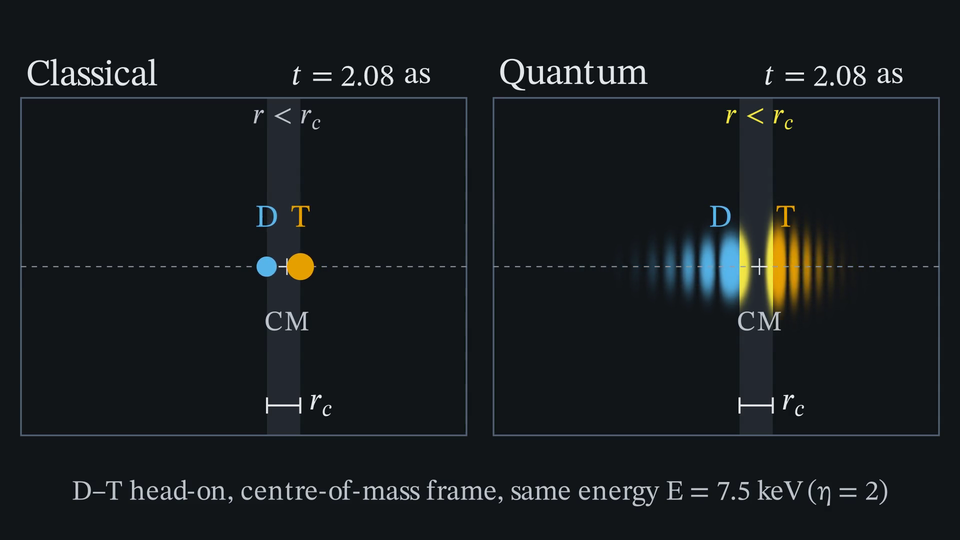
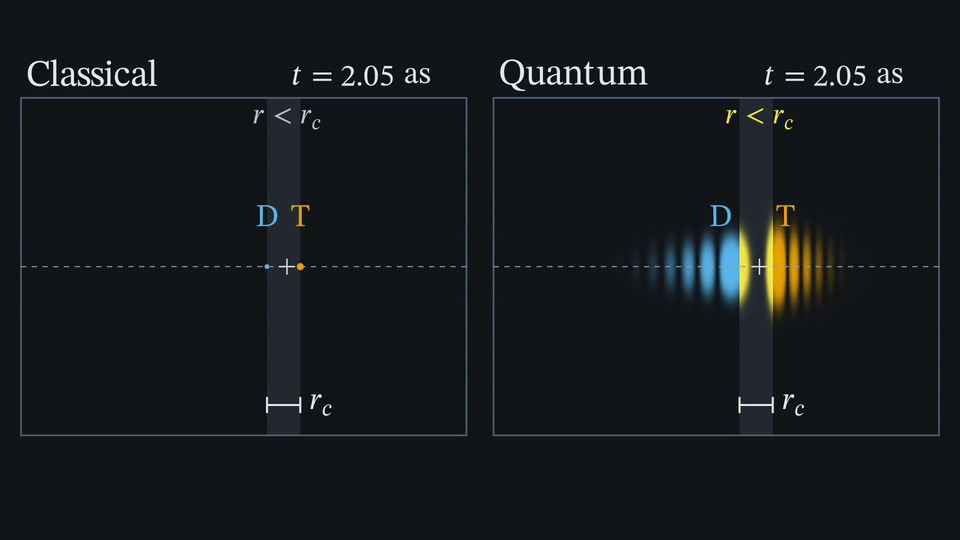
Show the Coulomb collision classical, quantum, then both, without prose
Three parts on one clock, axes and scale: classical alone, quantum alone,
both side by side (35.9 s). D and T are small point-like dots; the on-screen
caption and the CM text are removed, so the energy, CM frame and the
illustrative transverse width now live in the Skript caption. Re-rendered at
1080p60; registry and poster updated.

Claude-Session: https://claude.ai/code/session_017TLQrDTj8rvpYjHiC4zABo

diff --git a/animations/coulomb_collision.py b/animations/coulomb_collision.py
@@ -1,6 +1,7 @@
-"""Head-on D-T collision seen from above, classical and quantum side by side.
+"""Head-on D-T collision seen from above: classical, quantum, then both.
 
-Both panels show the collision plane in real space, centre-of-mass frame,
+Three parts on the same clock, axes, scale and r_c marker: the classical
+collision alone, the quantum collision alone, both side by side. Every panel shows the collision plane in real space, centre-of-mass frame,
 head-on (l = 0), at the same energy E (eta = 2, D-T at 7.5 keV) and on the
 same clock. The separation r of the two nuclei sets their positions on the
 collision axis, x_D = -(m_T/M) r and x_T = +(m_D/M) r (radial_coulomb.py).
@@ -22,20 +23,22 @@ import numpy as np
 
 from style import (
     BLUE, FAINT, GRID, INK, LABEL_SIZE, LINEAR, MATH_SIZE, MATH_SMALL,
-    MUTED, ORANGE, SMALL_SIZE, THIN_WIDTH, VERMILION, StyledScene, label, math,
+    MUTED, ORANGE, THIN_WIDTH, VERMILION, StyledScene, label, math,
 )
 import radial_coulomb as model
 
 X_LO, X_HI = -8.0, 5.4   # collision-axis window of each panel, in r_c (CM at 0)
 PANEL_W = 6.6           # panel width, Manim units
 PANEL_H = 5.0
-SCALE = PANEL_W / (X_HI - X_LO)
+SOLO_W = 12.6           # full-width panel, same axis window
 CENTRES = (np.array([-3.5, 0.05, 0]), np.array([3.5, 0.05, 0]))
+SOLO_CENTRE = np.array([0.0, 0.05, 0])
 T_START, T_END = 12.0, 58.2     # model time (hbar/E), symmetric about the classical turn 35.1
-PLAY_TIME = 12.5
-HOLD = 0.6
+PLAY_TIME = 10.5        # per part
+HOLD = 0.4
+FADE = 0.4
 SIGMA_Y = {"D": 0.42, "T": 0.52}    # illustrative transverse widths, in r_c
-DOT_R = {"D": 0.15, "T": 0.20}      # Manim units
+DOT_R = {"D": 0.035, "T": 0.0525}   # Manim units: ~9 and 14 px, << r_c (66 px)
 COLOR = {"D": BLUE, "T": VERMILION}
 INSIDE = ORANGE                     # parts of the clouds with r < r_c
 INSIDE_GAIN = 6.0
@@ -48,7 +51,7 @@ def hex_rgb(color):
 
 
 class CoulombCollision(StyledScene):
-    """Classical point particles (left) and quantum clouds (right)."""
+    """Classical point particles, quantum clouds, then both side by side."""
 
     def build(self):
         packet = model.RadialPacket()
@@ -56,144 +59,133 @@ class CoulombCollision(StyledScene):
         x_turn_d, x_turn_t = model.cm_positions(1.0)
         unit_as = model.time_unit_s() * 1e18
         tracker = ValueTracker(T_START)
-
-        def to_scene(panel, x, y=0.0):
-            x = x - 0.5 * (X_LO + X_HI)
-            return CENTRES[panel] + np.array([x * SCALE, y * SCALE, 0])
-
-        # --- static frame of both panels ---------------------------------
-        statics, bands = VGroup(), VGroup()
-        headings = []
-        for panel, title in enumerate(("Classical", "Quantum")):
-            box = Rectangle(width=PANEL_W, height=PANEL_H, stroke_color=GRID,
-                            stroke_width=THIN_WIDTH).move_to(CENTRES[panel])
-            band = Rectangle(width=SCALE * (x_turn_t - x_turn_d), height=PANEL_H,
-                             stroke_width=0, fill_color=GRID, fill_opacity=0.28)
-            band.move_to(to_scene(panel, 0.5 * (x_turn_d + x_turn_t)))
-            axis = DashedLine(to_scene(panel, X_LO), to_scene(panel, X_HI),
-                              dash_length=0.08, stroke_color=FAINT, stroke_width=1.6)
-            cm = VGroup(Line(to_scene(panel, 0, -0.25), to_scene(panel, 0, 0.25)),
-                        Line(to_scene(panel, -0.25, 0), to_scene(panel, 0.25, 0)))
-            cm.set_stroke(INK, 2.0)
-            cm_label = label("CM", color=MUTED, size=SMALL_SIZE)
-            cm_label.next_to(to_scene(panel, 0, -1.35), DOWN, buff=0)
-            # Scale bar r_c between the classical turning positions of D and T.
-            y_bar = -0.5 * PANEL_H / SCALE + 0.9
-            left, right = to_scene(panel, x_turn_d, y_bar), to_scene(panel, x_turn_t, y_bar)
-            bar = VGroup(Line(left, right), Line(left + 0.12 * UP, left + 0.12 * DOWN),
-                         Line(right + 0.12 * UP, right + 0.12 * DOWN)).set_stroke(INK, 3.0)
-            bar_label = math(r"r_c", color=INK, size=MATH_SIZE).next_to(bar, RIGHT, buff=0.15)
-            heading = label(title, color=INK, size=LABEL_SIZE + 6)
-            heading.next_to(box, UP, buff=0.18).align_to(box, LEFT).shift(0.1 * RIGHT)
-            if headings:
-                heading.align_to(headings[0], UP)      # same cap line
-            headings.append(heading)
-            bands.add(band)
-            statics.add(box, axis, cm, cm_label, bar, bar_label, heading)
-            inside = math(r"r<r_c", color=INSIDE if panel else MUTED, size=MATH_SMALL)
-            inside.next_to(to_scene(panel, 0, 0.5 * PANEL_H / SCALE), DOWN, buff=0.15)
-            statics.add(inside)
-
-        clocks = VGroup()
-        for panel in (0, 1):
-            clock = VGroup(math(r"t =", color=INK, size=MATH_SIZE),
-                           DecimalNumber(0.0, num_decimal_places=2, color=INK, font_size=MATH_SIZE),
-                           math(r"\mathrm{as}", color=INK, size=MATH_SIZE)).arrange(RIGHT, buff=0.15)
-            clock.next_to(CENTRES[panel] + np.array([0.5 * PANEL_W, 0.5 * PANEL_H, 0]),
-                          UP + LEFT, buff=0.18)
-            clock.shift(0.36 * LEFT)
-            clocks.add(clock)
-
-        def update_clock(mob):
-            mob[1].set_value((tracker.get_value() - T_START) * unit_as)
-
-        for clock in clocks:
-            update_clock(clock)
-            clock.add_updater(update_clock)
-
-        footer = label("D–T head-on, centre-of-mass frame, same energy E = 7.5 keV (η = 2)",
-                       color=MUTED, size=SMALL_SIZE)
-        footer.move_to([0, -3.3, 0])
-
-        # --- classical panel: two point particles -------------------------
-        dots = {s: Dot(radius=DOT_R[s], color=COLOR[s]) for s in ("D", "T")}
-        names = {s: label(s, color=COLOR[s], size=LABEL_SIZE) for s in ("D", "T")}
+        peak0 = np.max(np.abs(packet.at(T_START)) ** 2)
 
         def classical_x():
             r = float(model.classical_orbit([tracker.get_value()])[0][0])
             return dict(zip(("D", "T"), model.cm_positions(r)))
-
-        def place(species, panel, get_x):
-            def update(mob):
-                x = get_x()[species]
-                mob.move_to(to_scene(panel, x))
-                mob.set_opacity(1.0 if X_LO + 0.3 < x < X_HI - 0.3 else 0.0)
-            return update
-
-        def place_name(species, panel, get_x):
-            def update(mob):
-                x = get_x()[species]
-                mob.next_to(to_scene(panel, x, 1.2), UP, buff=0)
-                mob.set_opacity(1.0 if X_LO + 0.3 < x < X_HI - 0.3 else 0.0)
-            return update
-
-        classical = Group()
-        for s in ("D", "T"):
-            for mob, maker in ((dots[s], place), (names[s], place_name)):
-                maker(s, 0, classical_x)(mob)
-                mob.add_updater(maker(s, 0, classical_x))
-                classical.add(mob)
-
-        # --- quantum panel: probability clouds -----------------------------
-        n_x = int(round(PANEL_W * PX_PER_UNIT))
-        n_y = int(round(PANEL_H * PX_PER_UNIT))
-        xs = X_LO + (np.arange(n_x) + 0.5) / n_x * (X_HI - X_LO)
-        ys = ((np.arange(n_y) + 0.5) / n_y - 0.5) * PANEL_H / SCALE
-        profile = {s: np.exp(-ys**2 / (2 * SIGMA_Y[s] ** 2))[:, None] for s in ("D", "T")}
-        peak0 = np.max(np.abs(packet.at(T_START)) ** 2)
-
-        def cloud_pixels():
-            density = np.abs(packet.at(tracker.get_value())) ** 2 / peak0
-            rho_d, rho_t, r_d, r_t = model.marginal_densities(xs, packet.r, density)
-            # Show each cloud on the radial scale (rho in units of the incoming peak).
-            rho = {"D": rho_d * mass_t / (mass_d + mass_t), "T": rho_t * mass_d / (mass_d + mass_t)}
-            sep = {"D": r_d, "T": r_t}
-            rgb = np.zeros((n_y, n_x, 3))
-            for s in ("D", "T"):
-                inner = (sep[s] < 1.0) & (sep[s] > 0)
-                gain = np.where(inner, INSIDE_GAIN, 1.0)[None, :]
-                level = 1 - np.exp(-gain * rho[s][None, :] * profile[s] / TONE)
-                color = np.where(inner[:, None], hex_rgb(INSIDE), hex_rgb(COLOR[s]))
-                rgb += level[..., None] * color[None, :, :]
-            # Straight alpha so that the r < r_c band shading stays underneath.
-            alpha = np.clip(rgb.max(axis=2, keepdims=True), 0, 1)
-            color = np.clip(rgb / np.maximum(alpha, 1e-6), 0, 1)
-            return np.round(255 * np.concatenate([color, alpha], 2)).astype(np.uint8)
-
-        cloud = ImageMobject(cloud_pixels())
-        cloud.set_resampling_algorithm(RESAMPLING_ALGORITHMS["linear"])
-        cloud.stretch_to_fit_width(PANEL_W).stretch_to_fit_height(PANEL_H)
-        cloud.move_to(CENTRES[1])
-
-        def update_cloud(mob):
-            mob.pixel_array = cloud_pixels()
-
-        cloud.add_updater(update_cloud)
 
         def quantum_x():
             u = packet.at(tracker.get_value())
             mean_r = float(np.sum(packet.r * np.abs(u) ** 2) * packet.dr)
             return dict(zip(("D", "T"), model.cm_positions(mean_r)))
 
-        q_names = Group()
-        for s in ("D", "T"):
-            mob = label(s, color=COLOR[s], size=LABEL_SIZE)
-            place_name(s, 1, quantum_x)(mob)
-            mob.add_updater(place_name(s, 1, quantum_x))
-            q_names.add(mob)
+        def make_panel(title, centre, width, quantum):
+            """Layers (bottom to top) of one panel; the scale follows its width."""
+            scale = width / (X_HI - X_LO)
 
-        # The cloud image sits above the band shading, below frame and labels.
-        self.add(bands, cloud, statics, classical, q_names, clocks, footer)
-        self.wait(HOLD)
-        self.play(tracker.animate.set_value(T_END), run_time=PLAY_TIME, rate_func=LINEAR)
-        self.wait(HOLD)
+            def to_scene(x, y=0.0):
+                return centre + np.array([(x - 0.5 * (X_LO + X_HI)) * scale, y, 0])
+
+            box = Rectangle(width=width, height=PANEL_H, stroke_color=GRID,
+                            stroke_width=THIN_WIDTH).move_to(centre)
+            band = Rectangle(width=scale * (x_turn_t - x_turn_d), height=PANEL_H,
+                             stroke_width=0, fill_color=GRID, fill_opacity=0.28)
+            band.move_to(to_scene(0.5 * (x_turn_d + x_turn_t)))
+            axis = DashedLine(to_scene(X_LO), to_scene(X_HI), dash_length=0.08,
+                              stroke_color=FAINT, stroke_width=1.6)
+            cm = VGroup(Line(to_scene(0, -0.12), to_scene(0, 0.12)),
+                        Line(to_scene(0) + 0.12 * LEFT, to_scene(0) + 0.12 * RIGHT))
+            cm.set_stroke(INK, 2.0)
+            # Scale bar r_c between the classical turning positions of D and T.
+            y_bar = -0.5 * PANEL_H + 0.45
+            left, right = to_scene(x_turn_d, y_bar), to_scene(x_turn_t, y_bar)
+            bar = VGroup(Line(left, right), Line(left + 0.12 * UP, left + 0.12 * DOWN),
+                         Line(right + 0.12 * UP, right + 0.12 * DOWN)).set_stroke(INK, 3.0)
+            bar_label = math(r"r_c", color=INK, size=MATH_SIZE).next_to(bar, RIGHT, buff=0.15)
+            heading = label(title, color=INK, size=LABEL_SIZE + 6)
+            heading.next_to(box, UP, buff=0.18).align_to(box, LEFT).shift(0.1 * RIGHT)
+            heading.shift((box.get_top()[1] + 0.57 - heading.get_top()[1]) * UP)  # common cap line
+            inside = math(r"r<r_c", color=INSIDE if quantum else MUTED, size=MATH_SMALL)
+            inside.next_to(to_scene(0, 0.5 * PANEL_H), DOWN, buff=0.15)
+            statics = VGroup(box, axis, cm, bar, bar_label, heading, inside)
+
+            clock = VGroup(math(r"t =", color=INK, size=MATH_SIZE),
+                           DecimalNumber(0.0, num_decimal_places=2, color=INK, font_size=MATH_SIZE),
+                           math(r"\mathrm{as}", color=INK, size=MATH_SIZE)).arrange(RIGHT, buff=0.15)
+            clock.next_to(centre + np.array([0.5 * width, 0.5 * PANEL_H, 0]),
+                          UP + LEFT, buff=0.18)
+            clock.shift(0.36 * LEFT)
+
+            def update_clock(mob):
+                mob[1].set_value((tracker.get_value() - T_START) * unit_as)
+
+            update_clock(clock)
+            clock.add_updater(update_clock)
+
+            def follow(species, get_x, mob, dy):
+                def update(m):
+                    x = get_x()[species]
+                    m.move_to(to_scene(x, dy)) if dy == 0 else m.next_to(to_scene(x, dy), UP, buff=0)
+                    m.set_opacity(1.0 if X_LO + 0.3 < x < X_HI - 0.3 else 0.0)
+                update(mob)
+                mob.add_updater(update)
+                return mob
+
+            below = Group(band)
+            moving = Group()
+            if not quantum:
+                for s in ("D", "T"):
+                    moving.add(follow(s, classical_x, Dot(radius=DOT_R[s], color=COLOR[s]), 0))
+                    moving.add(follow(s, classical_x, label(s, color=COLOR[s], size=LABEL_SIZE), 0.6))
+                return below, statics, moving, clock
+
+            n_x = int(round(width * PX_PER_UNIT))
+            n_y = int(round(PANEL_H * PX_PER_UNIT))
+            xs = X_LO + (np.arange(n_x) + 0.5) / n_x * (X_HI - X_LO)
+            ys = ((np.arange(n_y) + 0.5) / n_y - 0.5) * PANEL_H / scale
+            profile = {s: np.exp(-ys**2 / (2 * SIGMA_Y[s] ** 2))[:, None] for s in ("D", "T")}
+
+            def cloud_pixels():
+                density = np.abs(packet.at(tracker.get_value())) ** 2 / peak0
+                rho_d, rho_t, r_d, r_t = model.marginal_densities(xs, packet.r, density)
+                # Each cloud on the radial scale (rho in units of the incoming peak).
+                rho = {"D": rho_d * mass_t / (mass_d + mass_t), "T": rho_t * mass_d / (mass_d + mass_t)}
+                sep = {"D": r_d, "T": r_t}
+                rgb = np.zeros((n_y, n_x, 3))
+                for s in ("D", "T"):
+                    inner = (sep[s] < 1.0) & (sep[s] > 0)
+                    gain = np.where(inner, INSIDE_GAIN, 1.0)[None, :]
+                    level = 1 - np.exp(-gain * rho[s][None, :] * profile[s] / TONE)
+                    color = np.where(inner[:, None], hex_rgb(INSIDE), hex_rgb(COLOR[s]))
+                    rgb += level[..., None] * color[None, :, :]
+                # Straight alpha so that the r < r_c band shading stays underneath.
+                alpha = np.clip(rgb.max(axis=2, keepdims=True), 0, 1)
+                color = np.clip(rgb / np.maximum(alpha, 1e-6), 0, 1)
+                return np.round(255 * np.concatenate([color, alpha], 2)).astype(np.uint8)
+
+            cloud = ImageMobject(cloud_pixels())
+            cloud.set_resampling_algorithm(RESAMPLING_ALGORITHMS["linear"])
+            cloud.stretch_to_fit_width(width).stretch_to_fit_height(PANEL_H)
+            cloud.move_to(centre)
+            cloud.add_updater(lambda mob: setattr(mob, "pixel_array", cloud_pixels()))
+            below.add(cloud)
+            for s in ("D", "T"):
+                moving.add(follow(s, quantum_x, label(s, color=COLOR[s], size=LABEL_SIZE), 0.6))
+            return below, statics, moving, clock
+
+        def show(*panels):
+            """The cloud image sits above the band, below frame and labels."""
+            layers = [Group(*[p[i] for p in panels]) for i in range(4)]
+            whole = Group(*layers)
+            self.add(*layers)
+            self.play(FadeIn(whole), run_time=FADE)
+            return whole
+
+        def run(whole, last=False):
+            self.wait(HOLD)
+            tracker.set_value(T_START)
+            self.play(tracker.animate.set_value(T_END), run_time=PLAY_TIME, rate_func=LINEAR)
+            self.wait(HOLD)
+            if last:
+                return
+            self.play(FadeOut(whole), run_time=FADE)
+            for mob in whole.get_family():
+                mob.clear_updaters()
+            self.remove(*whole.submobjects)
+
+        tracker.set_value(T_START)
+        run(show(make_panel("Classical", SOLO_CENTRE, SOLO_W, False)))
+        run(show(make_panel("Quantum", SOLO_CENTRE, SOLO_W, True)))
+        run(show(make_panel("Classical", CENTRES[0], PANEL_W, False),
+                 make_panel("Quantum", CENTRES[1], PANEL_W, True)), last=True)
